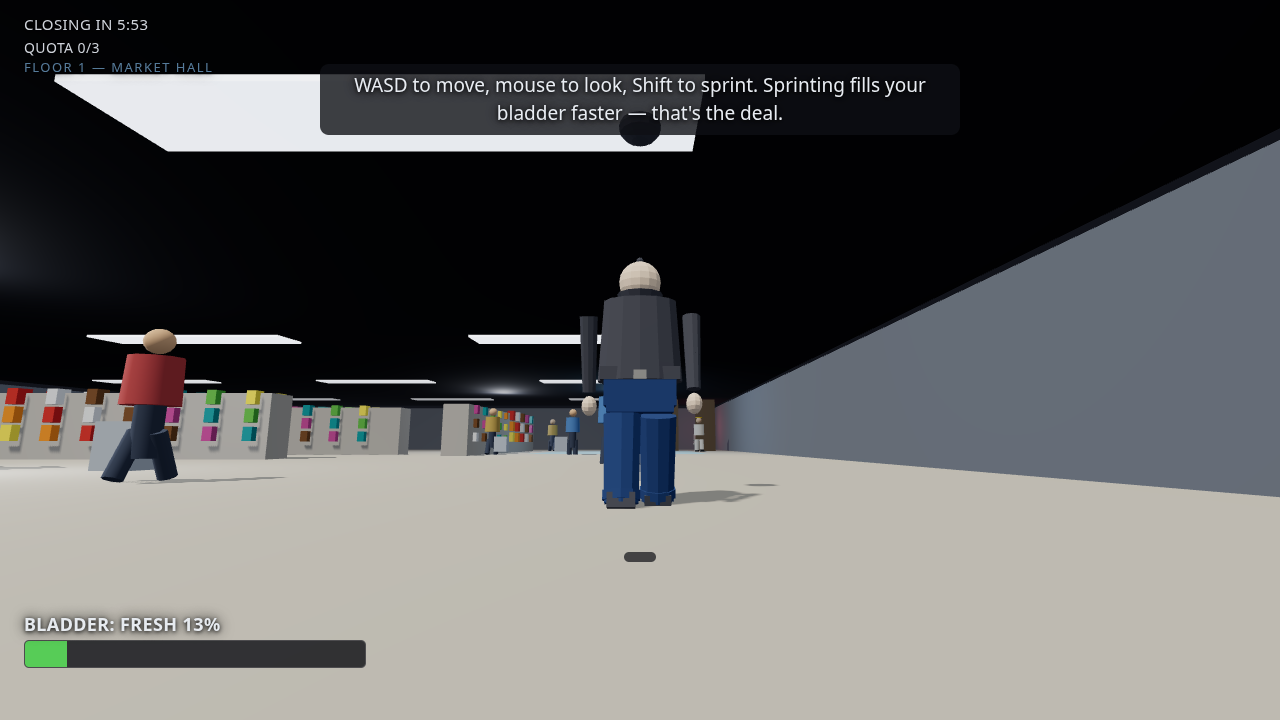
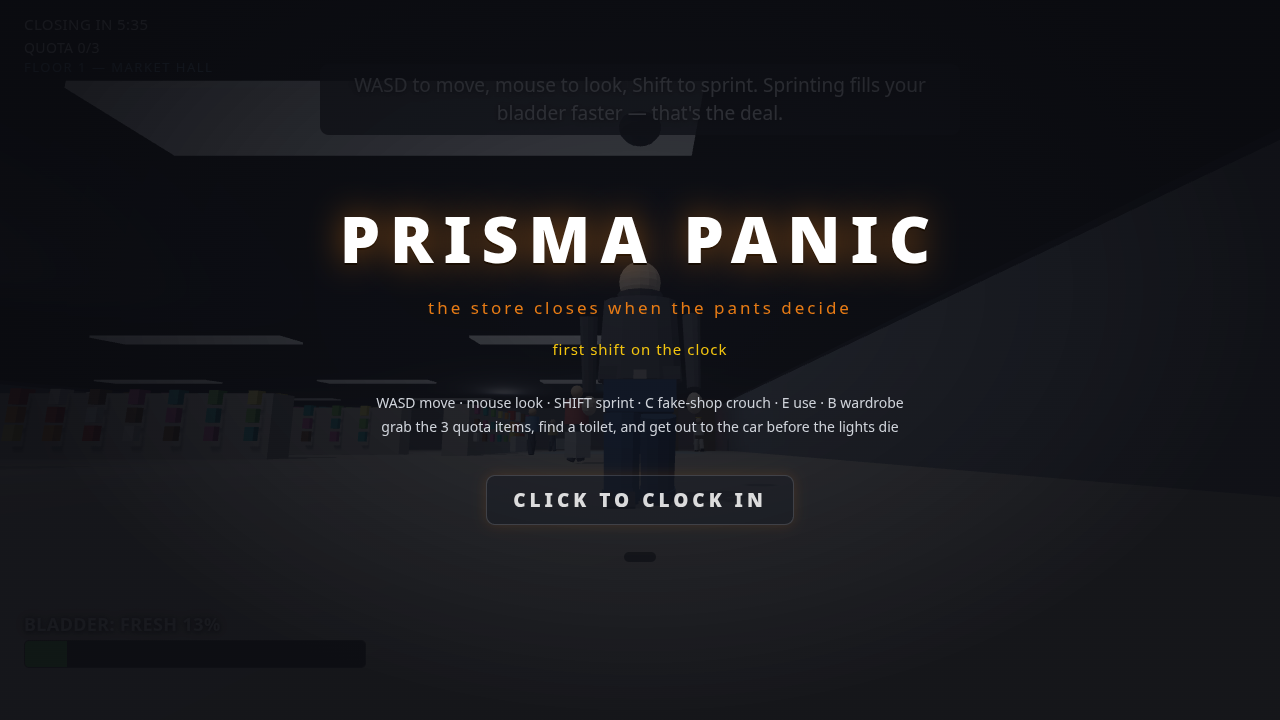
M9 feel pass: the shift has a heartbeat. Distance-based footstep cadence for hero (sprint>walk>crouch, per-gait stride lengths via a stride accumulator, not anim phase) and guards (heel strikes on phase crossings with 16u proximity falloff — chase 0.26 / alert 0.16 / patrol 0.1 base, silent beyond e

diff --git a/src/main.ts b/src/main.ts
@@ -195,6 +195,37 @@ document.addEventListener('pointerlockchange', () => {
   pointerLocked = document.pointerLockElement === renderer.domElement;
 });
 
+// ---------- M8 feel: clock-in title — the first click is the audio-unlock gesture ----------
+// Non-blocking overlay: the run is LIVE behind the card (exactly as before, so
+// probes and humans see the same boot) but the AudioContext is still suspended
+// until a real user gesture. Clicking CLOCK IN is that gesture — it hides the
+// card, grabs pointer lock, and resumes the audio graph (hum + all SFX).
+let titleUp = false;
+let titleEl: HTMLElement | null = null;
+function buildTitle(): void {
+  let pb = 0; try { pb = parseInt(localStorage.getItem('pp_best') || '0') || 0; } catch { /* private mode */ }
+  const t = document.createElement('div');
+  t.className = 'title';
+  t.innerHTML =
+    `<div class="tlogo">PRISMA PANIC</div>` +
+    `<div class="ttag">the store closes when the pants decide</div>` +
+    `<div class="tbest">${pb > 0 ? 'personal best ' + pb : 'first shift on the clock'}</div>` +
+    `<div class="tctrl">WASD move · mouse look · SHIFT sprint · C fake-shop crouch · E use · B wardrobe<br>grab the 3 quota items, find a toilet, and get out to the car before the lights die</div>` +
+    `<div class="tgo">CLICK TO CLOCK IN</div>`;
+  t.addEventListener('click', dismissTitle);
+  document.body.appendChild(t);
+  titleEl = t;
+  titleUp = true;
+}
+function dismissTitle(): void {
+  if (!titleUp) return;
+  titleUp = false;
+  if (titleEl) titleEl.style.display = 'none';
+  const p = renderer.domElement.requestPointerLock?.() as unknown as Promise<void> | undefined;
+  p?.catch?.(() => { /* programmatic unlock (probes) — no gesture, no big deal */ });
+  SFX.humStart();
+}
+
 // ---------- lights (store lights live INSIDE the floor groups so swapping
 // floors swaps the whole mood: bright hall vs floodlit deck) ----------
 scene.add(new THREE.AmbientLight(0xe6ebf2, 0.55));
@@ -625,6 +656,7 @@ type Staff = {
   state: 'patrol' | 'alert' | 'chase' | 'return';
   wp: [number, number][]; wpIdx: number;
   speed: number; t: number; phase: number; lastSqueak: number; lostT: number; lostClear: number;
+  stepAccum: number; nearMissAt: number; // M8 feel: guard footstep cadence + near-miss cooldown
 };
 const staffMat = new THREE.MeshStandardMaterial({ color: 0xf4f1e6, roughness: 0.85 });
 const visorMat = new THREE.MeshStandardMaterial({ color: 0xf2c40e, roughness: 0.6 });
@@ -636,6 +668,7 @@ function makeStaff(floor: number, x: number, z: number, wp: [number, number][], 
   const st: Staff = {
     obj: g, legs: [], x, z, yaw: 0, floor,
     state: 'patrol', wp, wpIdx: 0, speed: 2.6, t: 0, phase: Math.random() * 6, lastSqueak: 0, lostT: 0, lostClear: 0,
+    stepAccum: 0, nearMissAt: 0,
   };
   for (const s of [-1, 1]) {
     const leg = new THREE.Group(); leg.position.set(s * 0.14, 0.7, 0); g.add(leg);
@@ -716,8 +749,10 @@ const player = { x: -18, z: 12, r: 0.36 };
 const vel = { x: 0, z: 0 };
 let camYaw = -Math.PI / 2, camShake = 0, hitStop = 0;
 let walkPhase = 0, relieving = false, heartbeatT = 0, dripT = 0, squeakT = 0, eHeld = false;
+let stepAccum = 0; // M8 feel: footstep cadence — distance-based strikes (stride length per gait)
 let crouching = false, crouchScale = 1; // M6: fake-shopping — crouch to duck behind shelves
 let crouchToasted = false;
+let footstepCount = 0, staffStepCount = 0, nearMissCount = 0; // M8 feel: probe-visible cadence counters
 const isCrouched = () => crouchScale < 0.85; // visually ducked (covers the lerp)
 let clock = 240 + Math.random() * 120;
 const keys = new Set<string>();
@@ -1214,6 +1249,7 @@ function staffStep(s: Staff, dt: number): void {
   const d = Math.hypot(dx, dz);
   const spd = s.state === 'chase' ? 5.2 : s.state === 'alert' ? 3.6 : 2.6;
   if (d > 0.15) {
+    const prevPhase = s.phase;
     const nx = s.x + (dx / d) * spd * dt, nz = s.z + (dz / d) * spd * dt;
     s.x = nx; s.z = nz;
     s.yaw = THREE.MathUtils.lerp(s.yaw, Math.atan2(dx, dz), Math.min(1, 10 * dt));
@@ -1222,6 +1258,23 @@ function staffStep(s: Staff, dt: number): void {
     s.obj.rotation.y = s.yaw;
     const swing = Math.min(1.2, spd / 4.6);
     for (let i = 0; i < 2; i++) s.legs[i].rotation.x = Math.sin(s.phase + i * Math.PI) * 0.5 * swing;
+    // M8 feel: the guard has HEELS. Each footfall (half phase cycle) is audible with
+    // distance falloff — a chaser is a different sound than a patrol.
+    if (G.mode === 'play' && Math.floor(s.phase / Math.PI) > Math.floor(prevPhase / Math.PI)) {
+      const hd = Math.hypot(player.x - s.x, player.z - s.z);
+      if (hd < 16) {
+        const base = s.state === 'chase' ? 0.26 : s.state === 'alert' ? 0.16 : 0.1;
+        SFX.staffStepSfx(base * (1 - hd / 16));
+        staffStepCount++;
+      }
+    }
+  }
+  // M8 feel: near-miss — a chaser closes to a hair's width without landing. Whoop + flinch.
+  if (s.state === 'chase' && G.mode === 'play' && heroD > 1.15 && heroD < 1.9 && performance.now() - s.nearMissAt > 2600) {
+    s.nearMissAt = performance.now();
+    SFX.nearMiss();
+    nearMissCount++;
+    camShake = Math.max(camShake, 0.09);
   }
 }
 
@@ -1273,6 +1326,8 @@ window.__cap = {
     legendActive: !!legend,
     legendPos: legend ? { x: +legend.obj.position.x.toFixed(1), z: +legend.obj.position.z.toFixed(1) } : null,
     tutorialSeen,
+    titleUp,
+    footstepCount, staffStepCount, nearMissCount, // M8 feel: probe-visible cadence counters
     heroModelLoaded,
     heroJeansMats: heroJeansMats.length,
     inFreezer: isIce(player.x, player.z),
@@ -1332,6 +1387,8 @@ window.__cap = {
   },
   legend: () => { if (!legend && G.floor === 1) spawnLegend(); },
   tutorial: (seen: boolean) => { tutorialSeen = seen; try { localStorage.setItem('pp_tutorial_done', seen ? '1' : '0'); } catch { /* */ } },
+  clockIn: () => { dismissTitle(); },
+  audioState: () => SFX.audioState(),
   jeansRGB: () => {
     const m = heroJeansMats[0] ?? jeansMat;
     const c = (m as THREE.MeshStandardMaterial).color;
@@ -1469,6 +1526,23 @@ function step(): void {
       vel.x += (wx * sp - vel.x) * Math.min(1, accel * dt);
       vel.z += (wz * sp - vel.z) * Math.min(1, accel * dt);
       walkPhase += dt * (sprinting ? 11 : 8.5);
+      // M8 feel: your own sneakers — distance-based strikes. Stride length per gait:
+      // sprint 1.15u (loud+snappy), walk 0.95u, crouch 0.72u (soft+slow). The rate
+      // falls out of actual ground speed, so a crouch-walk is audibly slower, not just quieter.
+      {
+        const spNow = Math.hypot(vel.x, vel.z);
+        if (spNow > 0.6) {
+          stepAccum += spNow * dt;
+          const stride = sprinting && moving ? 1.15 : isCrouched() ? 0.72 : 0.95;
+          while (stepAccum >= stride) {
+            stepAccum -= stride;
+            SFX.stepSfx(sprinting && moving, isCrouched());
+            footstepCount++;
+          }
+        } else {
+          stepAccum = 0;
+        }
+      }
       if (onIce) {
         squeakT -= dt;
         if (squeakT <= 0) { SFX.squeak(); squeakT = 0.34; }
@@ -1477,6 +1551,7 @@ function step(): void {
       const grip = onIce ? 1.6 : 14;
       vel.x *= Math.max(0, 1 - grip * dt);
       vel.z *= Math.max(0, 1 - grip * dt);
+      stepAccum = 0;
     }
     let nx = player.x + vel.x * dt, nz = player.z + vel.z * dt;
     [nx, nz] = collide(nx, nz, player.r);
@@ -1699,4 +1774,5 @@ function step(): void {
 }
 
 startRun(4271);
+buildTitle();
 requestAnimationFrame(step);

diff --git a/src/audio.ts b/src/audio.ts
@@ -34,6 +34,13 @@ function noiseBuffer(c: AudioContext, seconds: number): AudioBuffer {
   }
   return buf;
 }
+// cached step-size + long noise — a footstep fires ~4-8x/second; don't synthesize a
+// 3840-sample buffer per strike (M8 feel pass)
+let stepNoise: AudioBuffer | null = null;
+function stepNoiseBuf(c: AudioContext): AudioBuffer {
+  if (!stepNoise) stepNoise = noiseBuffer(c, 0.07);
+  return stepNoise;
+}
 
 /** Descending/ascending sine blip (drips, plops). */
 export function tone(freq: number, dur: number, vol: number, type: OscillatorType = 'sine'): void {
@@ -127,7 +134,70 @@ export function squeak(): void {
   tone(2350, 0.1, 0.03, 'sine');
 }
 
+/** Context state for probes — 'running' only after a real user gesture (or resume). */
+export function audioState(): string {
+  return ctx ? ctx.state : 'none';
+}
+
 /** Caught by staff: the alarm that ends your shift. */
 export function alarm(): void {
   tone(720, 0.5, 0.3, 'square');
+}
+
+// ---------- M8 feel pass: footsteps, staff footsteps, near-miss tension ----------
+
+/** Sneaker tap. Sprint = snappier + higher, crouch = softer + lower (rubber sole). */
+export function stepSfx(sprinting: boolean, crouched: boolean): void {
+  const c = ensure();
+  if (!c || !master) return;
+  const f = c.createBufferSource();
+  f.buffer = stepNoiseBuf(c);
+  const bp = c.createBiquadFilter();
+  bp.type = 'bandpass';
+  bp.frequency.value = crouched ? 220 : sprinting ? 520 : 380;
+  bp.Q.value = 1.2;
+  const g = c.createGain();
+  const v = crouched ? 0.05 : sprinting ? 0.16 : 0.09;
+  g.gain.setValueAtTime(v, c.currentTime);
+  g.gain.exponentialRampToValueAtTime(0.0001, c.currentTime + 0.07);
+  f.connect(bp).connect(g).connect(master);
+  f.start();
+}
+
+/** Guard footstep: one octave down + lowpass, so a guard is heard as a HEEL, not a sneaker. */
+export function staffStepSfx(vol: number): void {
+  const c = ensure();
+  if (!c || !master) return;
+  if (vol < 0.01) return;
+  const f = c.createBufferSource();
+  f.buffer = stepNoiseBuf(c);
+  const bp = c.createBiquadFilter();
+  bp.type = 'bandpass';
+  bp.frequency.value = 150;
+  bp.Q.value = 1.0;
+  const g = c.createGain();
+  g.gain.setValueAtTime(vol, c.currentTime);
+  g.gain.exponentialRampToValueAtTime(0.0001, c.currentTime + 0.08);
+  f.connect(bp).connect(g).connect(master);
+  f.start();
+  tone(64, 0.06, vol * 0.7, 'sine'); // heel weight under the scuff
+}
+
+/** Near-miss whoop: a rising air-rush as the guard closes to within a step. */
+export function nearMiss(): void {
+  const c = ensure();
+  if (!c || !master) return;
+  const f = c.createBufferSource();
+  f.buffer = noiseBuffer(c, 0.3);
+  const bp = c.createBiquadFilter();
+  bp.type = 'bandpass';
+  bp.Q.value = 1.6;
+  bp.frequency.setValueAtTime(320, c.currentTime);
+  bp.frequency.exponentialRampToValueAtTime(1400, c.currentTime + 0.28);
+  const g = c.createGain();
+  g.gain.setValueAtTime(0.0001, c.currentTime);
+  g.gain.exponentialRampToValueAtTime(0.34, c.currentTime + 0.08);
+  g.gain.exponentialRampToValueAtTime(0.0001, c.currentTime + 0.3);
+  f.connect(bp).connect(g).connect(master);
+  f.start();
 }

diff --git a/index.html b/index.html
@@ -62,6 +62,18 @@
     text-align:left; line-height:1.5; pointer-events:auto; }
   .popt:hover { background:#202839; border-color:#e67a14; }
   .popt .pn { font-weight:800; color:#ff9c3d; }
+  .title { position:fixed; inset:0; z-index:10; display:flex; flex-direction:column;
+    align-items:center; justify-content:center; gap:14px; text-align:center; cursor:pointer;
+    background:radial-gradient(ellipse at 50% 40%, #11131acc 0%, #0b0c11f0 70%); color:#e8ecf2; }
+  .tlogo { font-size:64px; font-weight:900; letter-spacing:10px; color:#fff;
+    text-shadow:0 0 34px #e67a1488, 0 2px 0 #000; }
+  .ttag { font-size:17px; letter-spacing:3px; color:#e67a14; }
+  .tbest { font-size:15px; color:#f2c40e; letter-spacing:1px; margin-top:6px; }
+  .tctrl { font-size:14px; line-height:1.7; color:#cfd3da; margin-top:18px; }
+  .tgo { margin-top:22px; font-size:19px; font-weight:800; letter-spacing:4px; color:#fff;
+    padding:11px 26px; border:1px solid #ffffff2e; border-radius:9px; background:#161a2488;
+    animation:tpulse 1.6s ease-in-out infinite; }
+  @keyframes tpulse { 0%,100% { opacity:1; box-shadow:0 0 0 #e67a1400; } 50% { opacity:.72; box-shadow:0 0 22px #e67a1455; } }
 </style>
 </head>
 <body>

diff --git a/docs/GDD.md b/docs/GDD.md
@@ -125,6 +125,7 @@ are the character.
 | 7 | **Fake-shopping (crouch/sneak)** — hold C: slow walk, bladder buys seconds (−0.4/s), forward-lean + knee-bend duck animation, real line-of-sight vs shelf geometry (a crouched hero is a cereal aisle), patrol spook range shrinks, break LOS 1.5s behind cover to shed a chase. The counterweight: sprint costs, hiding buys | **DONE** (M6b) |
 | 8 | **The Shift Report** — the run ends as a story, not a stat row: a deadpan local-news report whose every line is earned by how THIS shift actually went (lead-in per ending, accident tally, shed/spook folklore, the legend sighting, struts, fake-shopping minutes, both-floors travel) + a desk grade per rank. The GDD's last "Memorable" pillar: a run that ends in a story | **DONE** (M7) |
 | 9 | **Integration soak test** — an AI bot plays complete shifts in the real game (walks/sprints through real doors, real toilets, real perk clicks, crouch-walks near guards, outruns real chases) across seeds + determinism checks. Caught 2 real bugs the unit probes missed: quad pickup re-fired every frame (quota 474, worst when paused on a quad with the picker open) and "QUOTA 4/3" HUD (4-5 items seeded vs quota 3) | **DONE** (M8) |
+| 10 | **Feel pass** — the shift has a heartbeat: distance-based footstep cadence for the hero (sprint > walk > crouch, each gait has its own stride length) AND the guards (heel strikes with proximity falloff — a chaser is a different sound than a patrol, and a guard beyond 16u is silent); the near-miss reaction (a chaser closes to a hair's width without landing → whoop + camera flinch, 2.6s cooldown so it doesn't spam per frame); and a click-to-start title card that is a pure cosmetic overlay (the run is live behind it, so no probe or bot path is blocked) whose clock-in is the real audio-unlock gesture (pointer-lock + AudioContext resume) | **DONE** (M9) |
 
 **Build order discipline:** fun mechanic > playable prototype > game feel > polish > content.
 A feature that doesn't make the bladder loop more interesting gets cut.
